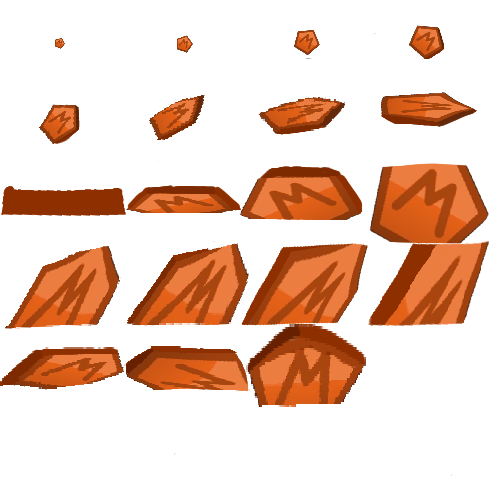
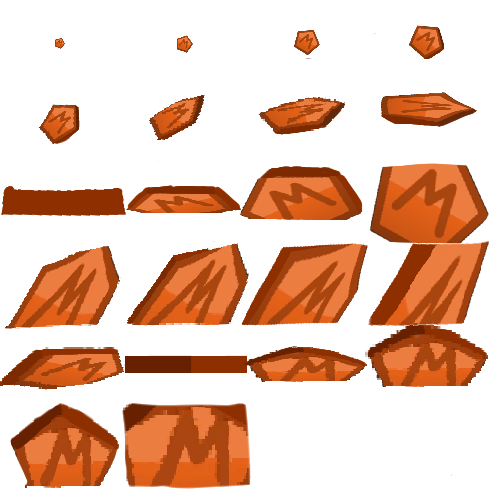
Item pages, previous/next

Changed region(s): [[0.0, 0.6325, 1.0, 0.994]]

diff --git a/scripts/scenes/fight.js b/scripts/scenes/fight.js
@@ -100,6 +100,7 @@ scenes.fight = () => {
     var fightaction = "none";
     var turn = 1;
     var put = 0; //positions update time
+    var itemPage = 0;
 
     var fightButtons = [];
     var fightActions = [];
@@ -469,8 +470,6 @@ scenes.fight = () => {
                 // Bar animation! (Cowboy moment)
                 updateBar(positions[fpos1][fpos2].occupied, HealthBefore);
                 if (game.characters[positions[fpos1][fpos2].occupied].HP < 1) {
-                    console.log(game.characters[positions[fpos1][fpos2].occupied]);
-                    console.log(fpos1, fpos2);
                     game.characters[positions[fpos1][fpos2].occupied].HP = 0;
                     postLog(epositions[pos[0]][pos[1]].name + " killed " + game.characters[positions[fpos1][fpos2].occupied].name + "!");
                     positions[fpos1][fpos2].isOccupied = false;
@@ -650,20 +649,21 @@ scenes.fight = () => {
     }
 
     function showItems() {
-    let inventory = Object.keys(game.inventory);
-        for (i = 0; i < fightActions.length; i++) {
+    let itemOffset = itemPage * 12
+        let inventory = Object.keys(game.inventory);
+        for (i = 0; i < ((fightActions.length / 4) - 9); i++) {
             fightActions[(i * 4) + 3].alpha = 0;
-            if (inventory[i] == undefined) {
+            if (inventory[i + itemOffset] == undefined) {
                 fightActions[(i * 4) + 2].text = "---";
-                break;
+                continue;
             }
-            if (game.inventory[items[inventory[i]].name] > 0) {
-                fightActions[(i * 4)].item = items[inventory[i]];
-                if (game.inventory[items[inventory[i]].name] > 1) fightActions[(i * 4) + 2].text = items[inventory[i]]().name + " x" + game.inventory[items[inventory[i]].name];
-                else fightActions[(i * 4) + 2].text = items[inventory[i]]().name;
-                if (items[inventory[i]]().story) fightActions[(i * 4) + 2].fill = "darkgray";
+            if (game.inventory[items[inventory[i + itemOffset]].name] > 0) {
+                fightActions[(i * 4)].item = items[inventory[i + itemOffset]];
+                if (game.inventory[items[inventory[i + itemOffset]].name] > 1) fightActions[(i * 4) + 2].text = items[inventory[i + itemOffset]]().name + " x" + game.inventory[items[inventory[i + itemOffset]].name];
+                else fightActions[(i * 4) + 2].text = items[inventory[i + itemOffset]]().name;
+                if (items[inventory[i + itemOffset]]().story) fightActions[(i * 4) + 2].fill = "darkgray";
                 else fightActions[(i * 4) + 2].fill = "white";
-                fightActions[(i * 4) + 3].source = "items/" + items[inventory[i]]().source;
+                fightActions[(i * 4) + 3].source = "items/" + items[inventory[i + itemOffset]]().source;
                 fightActions[(i * 4) + 3].alpha = 255;
             }
             else {
@@ -938,7 +938,7 @@ scenes.fight = () => {
         }
     }
     fightActions.push(controls.rect({
-        anchor: [0.67, 0], sizeAnchor: [0.17, 0.0375], offset: [0, -500],
+        anchor: [0.67, 0.1875], sizeAnchor: [0.17, 0.0375], offset: [0, -500],
         fill: "rgb(38, 52, 38)",
         alpha: 255,
         item: "",
@@ -950,16 +950,67 @@ scenes.fight = () => {
         }
     }));
     fightActions.push(controls.rect({
+        anchor: [0.6725, 0.19], sizeAnchor: [0.165, 0.0325], offset: [0, -500],
+        fill: "rgb(42, 87, 44)",
+        alpha: 255,
+    }))
+    fightActions.push(controls.label({
+        anchor: [0.755, 0.2075], offset: [-24, -500],
+        text: "Back",
+        fontSize: 16, fill: "white", align: "center",
+        alpha: 255,
+    }))
+
+
+    fightActions.push(controls.rect({
+        anchor: [0.67, 0.0], sizeAnchor: [0.17, 0.0375], offset: [0, -500],
+        fill: "rgb(38, 52, 38)",
+        alpha: 255,
+        item: "",
+        onClick(args) {
+            if (this.alpha == 255 && itemPage > 0) {
+                itemPage -= 1;
+                showItems();
+            }
+        }
+    }));
+    fightActions.push(controls.rect({
         anchor: [0.6725, 0.0025], sizeAnchor: [0.165, 0.0325], offset: [0, -500],
         fill: "rgb(42, 87, 44)",
         alpha: 255,
     }))
     fightActions.push(controls.label({
         anchor: [0.755, 0.025], offset: [-24, -500],
-        text: "Back",
+        text: "Previous",
         fontSize: 16, fill: "white", align: "center",
         alpha: 255,
     }))
+
+
+    fightActions.push(controls.rect({
+        anchor: [0.67, 0.0375], sizeAnchor: [0.17, 0.0375], offset: [0, -500],
+        fill: "rgb(38, 52, 38)",
+        alpha: 255,
+        item: "",
+        onClick(args) {
+            if (this.alpha == 255) {
+                itemPage += 1;
+                showItems();
+            }
+        }
+    }));
+    fightActions.push(controls.rect({
+        anchor: [0.6725, 0.04], sizeAnchor: [0.165, 0.0325], offset: [0, -500],
+        fill: "rgb(42, 87, 44)",
+        alpha: 255,
+    }))
+    fightActions.push(controls.label({
+        anchor: [0.755, 0.0625], offset: [-24, -500],
+        text: "Next",
+        fontSize: 16, fill: "white", align: "center",
+        alpha: 255,
+    }))
+
 
     for (j = 0; j < 2; j++) {
         for (i = 0; i < 3; i++) {

diff --git a/scripts/scenes/game.js b/scripts/scenes/game.js
@@ -413,7 +413,6 @@ scenes.game = () => {
                     enemies.push(mapenemies.itsalivemap({
                         position: [Math.floor(Math.random() * 20), Math.floor(Math.random() * 15)], map: game.map,
                     }));
-                    console.log(enemies);
                 }
                 if (this.offset[0] == -145 && canMove == true) {
                     hideMapDisplay();
